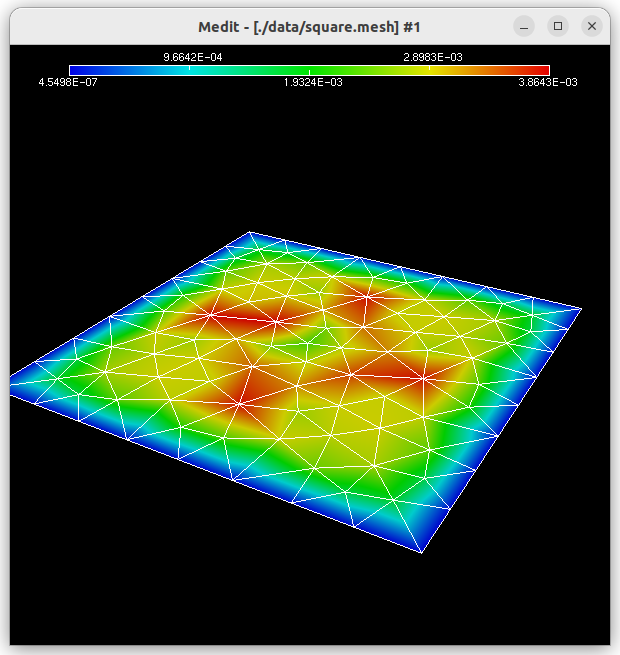
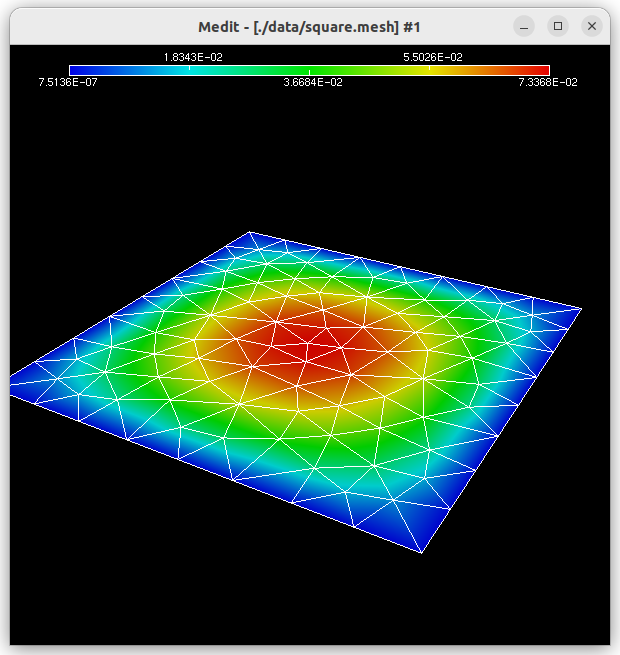
simulations corrected

Changed region(s): [[0.0, 0.3359, 0.9194, 0.855]]

diff --git a/src/simu.h b/src/simu.h
@@ -59,19 +59,15 @@ namespace FEM2A {
             t_max = M.nb_vertices() * quadrat.nb_points();
             DenseMatrix Ke ;
             SparseMatrix K(t_max);
-            std::vector< double > Fe;
             std::vector< double > F(t_max,0);
             
-            // CREATE K AND F
+            // CREATE K
             for (int t=0 ; t<M.nb_triangles(); ++t)
             {
                 ElementMapping element(M, false, t);
                 // K
                 assemble_elementary_matrix(element, fonctions, quadrat, unit_fct, Ke);
                 local_to_global_matrix(M, t, Ke, K);
-                // F
-                assemble_elementary_vector(element, fonctions, quadrat, zero_fct, Fe);
-                local_to_global_vector(M, false,t, Fe, F);
             }
             
             // CHOOSE AND APPLY DIRICHLET CONDITIONS            

diff --git a/src/fem.cpp b/src/fem.cpp
@@ -404,11 +404,11 @@ namespace FEM2A {
         for (int i=0 ; i<Ke.height() ; ++i)
         {
             global_i = M.get_triangle_vertex_index(t, i);
-            for (int j = i ; j<Ke.height() ; j++)
+            for (int j = 0 ; j<Ke.height() ; j++)
             {
                 global_j = M.get_triangle_vertex_index(t, j);
                 K.add(global_i,global_j , Ke.get(i,j));
-                K.add(global_j, global_i , Ke.get(i,j));
+
             }
         }
         

diff --git a/main.cpp b/main.cpp
@@ -56,8 +56,8 @@ void run_tests()
 void run_simu()
 {
 
-    const bool simu_pure_dirichlet = true;
-    const bool simu_source_dirichlet = false ; 
+    const bool simu_pure_dirichlet = false;
+    const bool simu_source_dirichlet = true ; 
 
     const bool verbose = flag_is_used( "-v", arguments )
         || flag_is_used( "--verbose", arguments );
